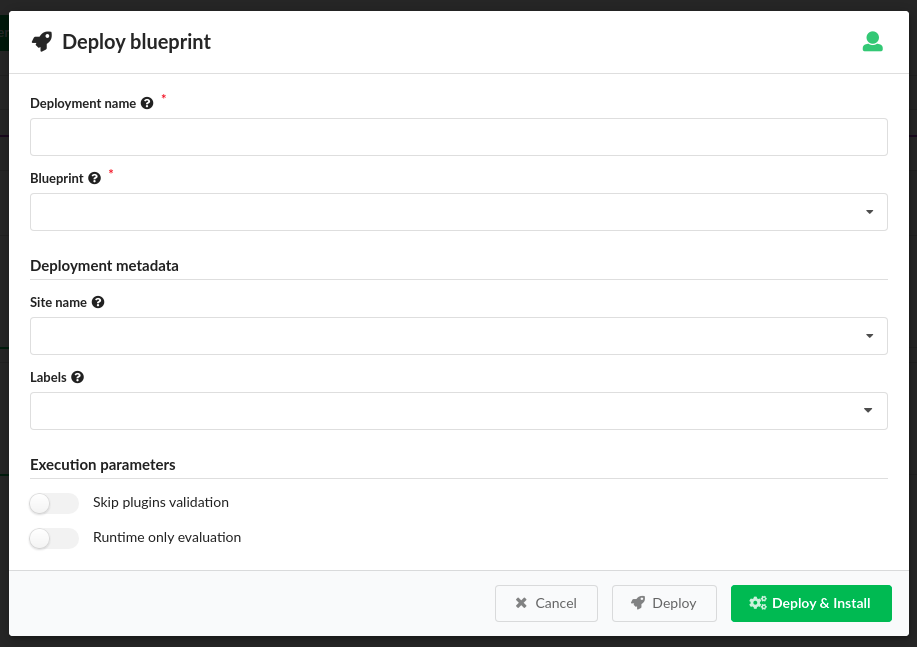
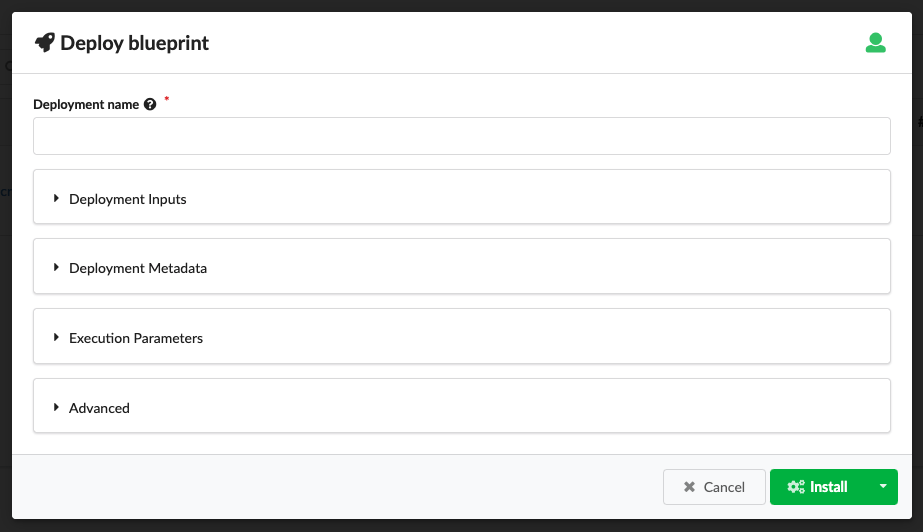
Update the blueprints page

Changed region(s): [[0.0, 0.0, 1.0, 0.9925]]

diff --git a/content/working_with/console/widgets/blueprints.md b/content/working_with/console/widgets/blueprints.md
@@ -67,7 +67,7 @@ The default visibility is "Tenant", and according to the logged-in user's permis
    The names of the default input values appear in the inputs fields. You can leave these defaults or override them with new values.
    Input's description (on hovering help icon ![Help icon]( /images/ui/icons/help-icon.png )) might help you understand how to fill-in the proper value.
    An alternative for providing the inputs is to specify a .yaml file containing the relevant values.
-4. Click **Deploy** to deploy the blueprint or **Deploy & Install** to deploy and execute `install` workflow on it.
+4. Click **Deploy** to deploy the blueprint or select **Install** in the drop-down to deploy and execute `install` workflow on it.
 
 ![Create a deployment]( /images/ui/widgets/blueprints_deployment_creation.png )
 
